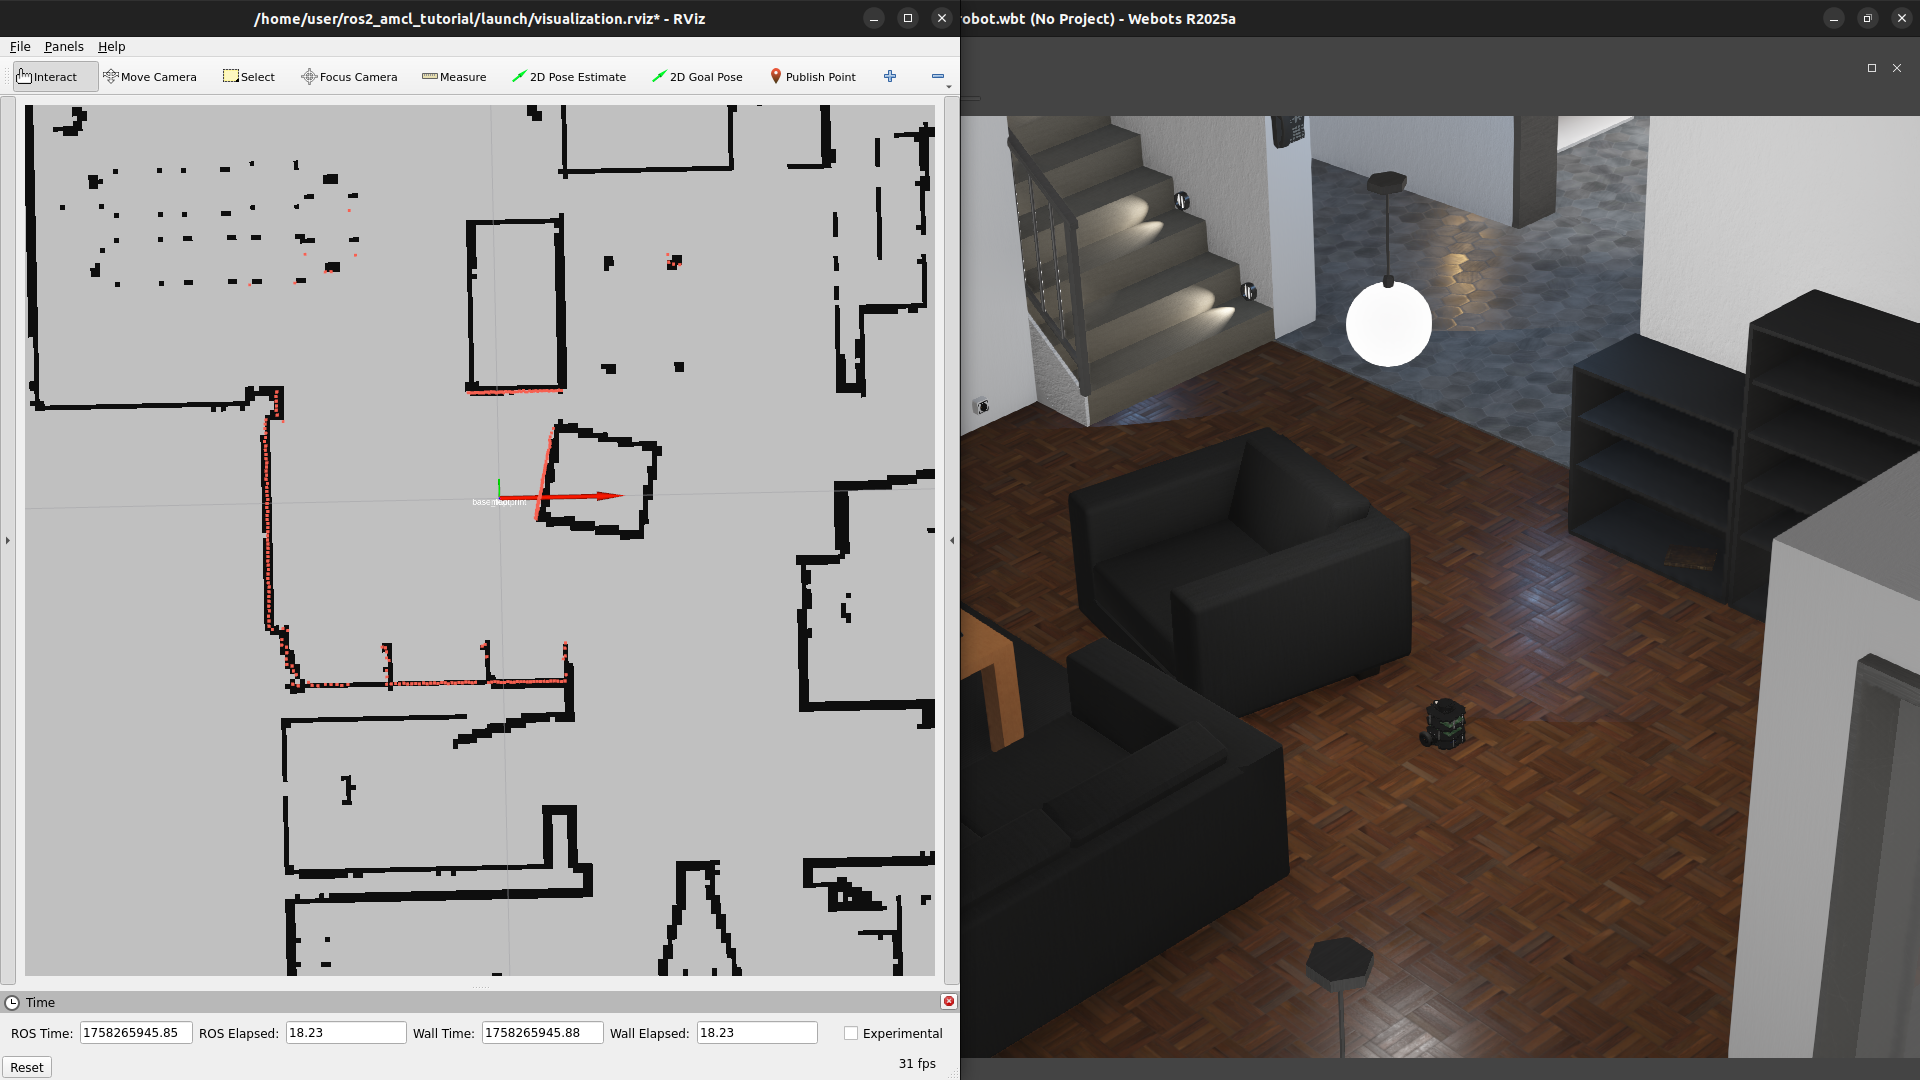
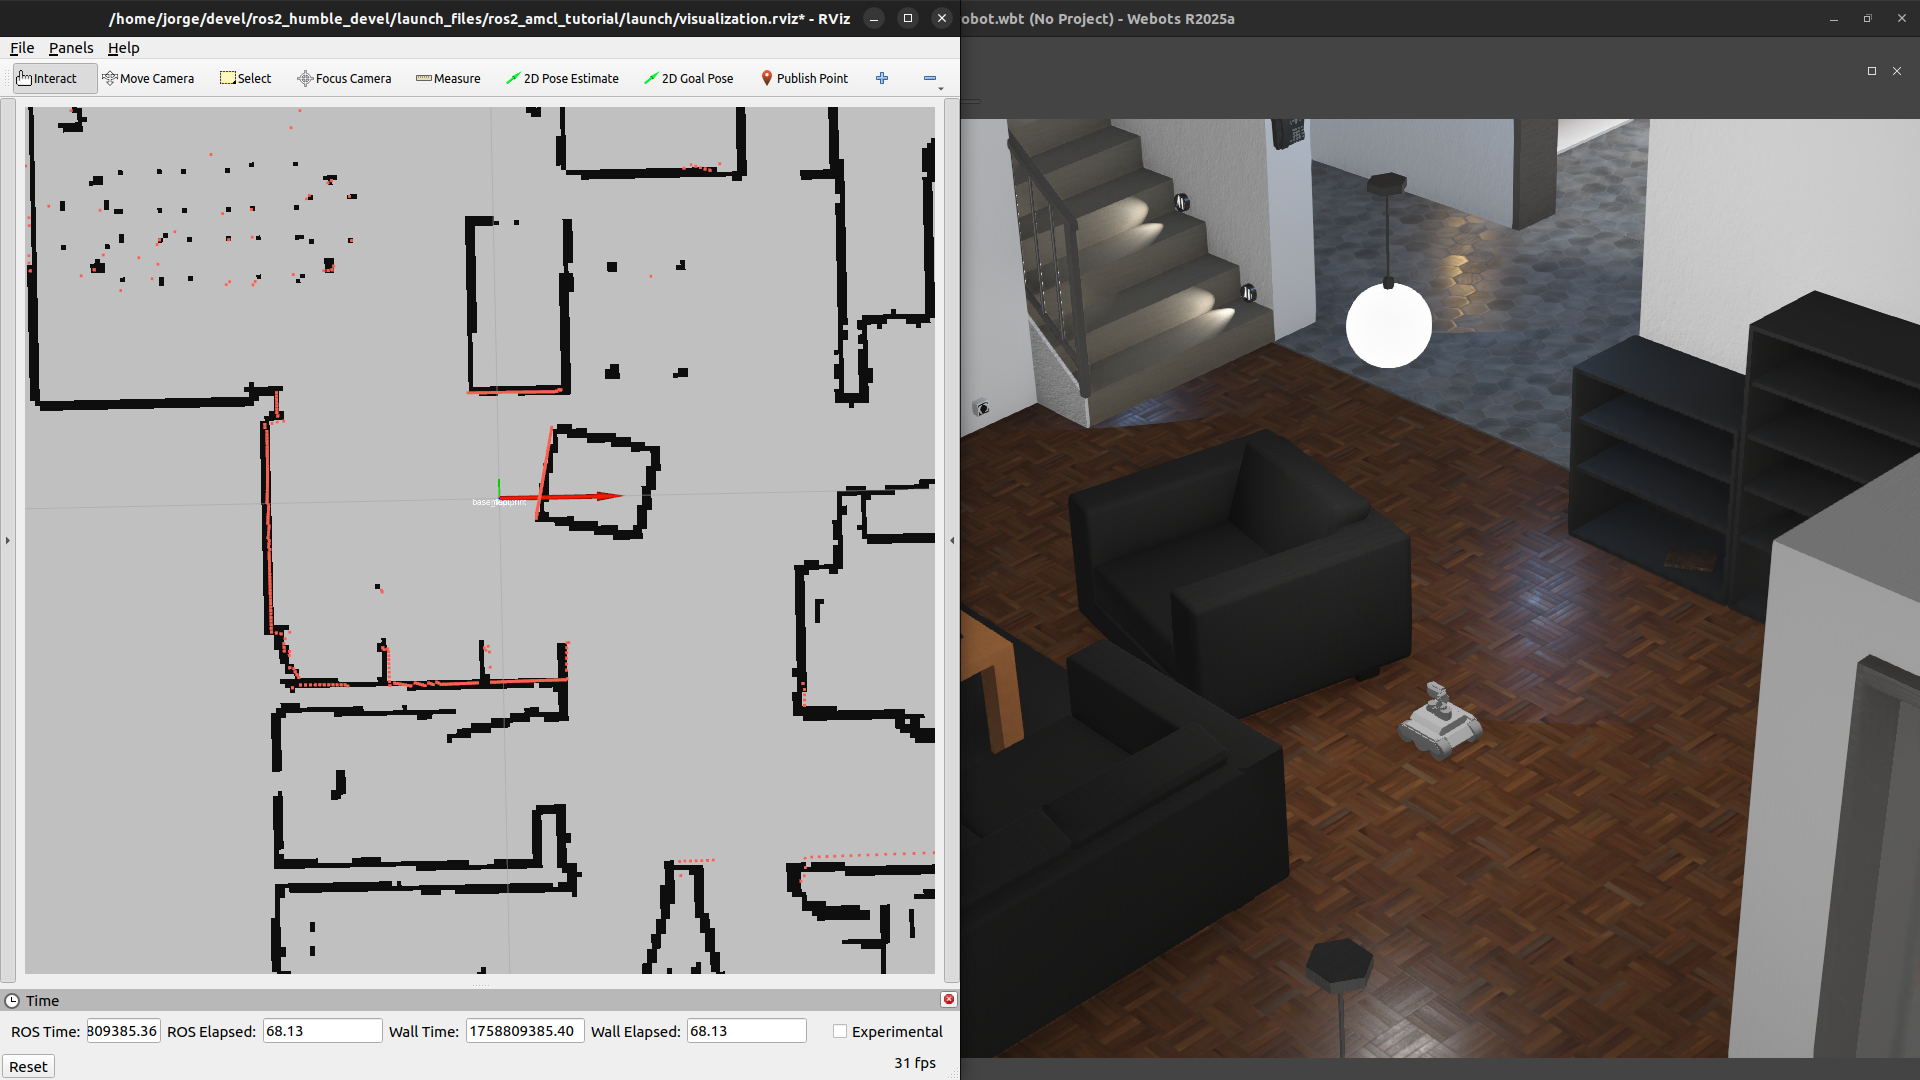
Bug fix

diff --git a/launch/webots_sim.launch.py b/launch/webots_sim.launch.py
@@ -51,14 +51,15 @@ def generate_launch_description():
   ld.add_action(footprint_publisher)
 
   # ROS control spawners
-  controller_manager_timeout = ['--controller-manager-timeout', '50']
   controller_manager_prefix = 'python.exe' if os.name == 'nt' else ''
+  controller_manager_timeout = ['--controller-manager-timeout', '50']
+
   diffdrive_controller_spawner = Node(
     package='controller_manager',
     executable='spawner',
     output='screen',
     prefix=controller_manager_prefix,
-    arguments=['diffdrive_controller'] + controller_manager_timeout,
+    arguments=['diffdrive_controller'] + controller_manager_timeout
   )
   joint_state_broadcaster_spawner = Node(
     package='controller_manager',
@@ -83,7 +84,13 @@ def generate_launch_description():
   # UGV Rover Driver Node
   robot_description_path = os.path.join(dirname, '../webots/robot', 'ugv_rover_webots.urdf')
   ros2_control_params = os.path.join(dirname, '../webots/robot', 'ros2control.yml')
-  mappings = [('/diffdrive_controller/cmd_vel_unstamped', '/cmd_vel'), ('/diffdrive_controller/odom', '/odom')]
+
+  use_twist_stamped = 'ROS_DISTRO' in os.environ and (os.environ['ROS_DISTRO'] in ['rolling', 'jazzy', 'kilted'])
+  if use_twist_stamped:
+    mappings = [('/diffdrive_controller/cmd_vel', '/cmd_vel'), ('/diffdrive_controller/odom', '/odom')]
+  else:
+    mappings = [('/diffdrive_controller/cmd_vel_unstamped', '/cmd_vel'), ('/diffdrive_controller/odom', '/odom')]
+
   ugv_rover_driver = WebotsController(
     robot_name='UGVRover',
     parameters=[

diff --git a/README.md b/README.md
@@ -116,7 +116,7 @@ You can manually control the robot using the keyboard teleoperation node:
 ros2 run teleop_twist_keyboard teleop_twist_keyboard
 ```
 
-This will publish velocity commands to the robot in the Webots simulation.  allowing you to move the robot in the Webots simulation and test the AMCL localization in real-time.
+This will publish velocity commands to the robot in the Webots simulation allowing you to move the robot in the Webots simulation and test the AMCL localization in real-time.
 
 ## Main Tutorial Files
 
